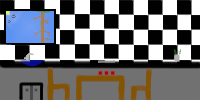
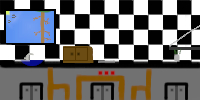
began making levels

diff --git a/level instructions.js b/level instructions.js
@@ -1,0 +1,86 @@
+import Line from "./line.js"
+import Element from "./element.js"
+import { vhToPx, pxToVh, vwToPx, pxToVw } from "./script.js"
+
+export let testLevelIni = function(thisLevel) {
+    // let element = new Element(thisLevel, -6, 0.9, electron, window_width - 400, window_height - 1000, "element")
+    // element.draw()
+    
+    // let element2 = new Element(thisLevel, 9, 1.5, positive, 20, window_height - characterHeight - 1000, "element")
+    // element2.draw()
+    
+    // let element3 = new Element(thisLevel, 7, 0.4, positive, window_width - 100, window_height - characterHeight - 1000, "element")
+    // element3.draw()
+    
+    // let testFloor = new Line(10, window_height - 25, 500, window_height - 25, thisLevel)
+    
+    // let testFloorWithWall = new Line(10, 100, 10, window_height - 25, thisLevel)
+
+    let redBookline1 = new Line(vwToPx(29.83), vhToPx(85.86), vwToPx(32.44), vhToPx(85.86), thisLevel)
+    let redBookline2 = new Line(vwToPx(29.83), vhToPx(99.43), vwToPx(32.44), vhToPx(99.43), thisLevel)
+    let redBookline3 = new Line(vwToPx(29.83), vhToPx(85.86), vwToPx(29.83), vhToPx(99.43), thisLevel)
+    let redBookline4 = new Line(vwToPx(32.44), vhToPx(85.86), vwToPx(32.44), vhToPx(99.43), thisLevel)
+
+    let chairline1 = new Line(vwToPx(79.38060309698452), vhToPx(87.115165336374), vwToPx(86.96006519967399), vhToPx(87.115165336374), thisLevel)
+    let chairline2 = new Line(vwToPx(79.38060309698452), vhToPx(99.54389965792474), vwToPx(86.96006519967399), vhToPx(99.54389965792474), thisLevel)
+    let chairline3 = new Line(vwToPx(79.38060309698452), vhToPx(87.115165336374), vwToPx(79.38060309698452), vhToPx(99.54389965792474), thisLevel)
+    let chairline4 = new Line(vwToPx(86.96006519967399), vhToPx(87.115165336374), vwToPx(86.96006519967399), vhToPx(99.54389965792474), thisLevel)
+
+    let blueBookline2 = new Line(vwToPx(27.87286063569682), vhToPx(99.77194982896236), vwToPx(29.991850040749796), vhToPx(99.77194982896236), thisLevel)
+    let blueBookline1 = new Line(vwToPx(27.87286063569682), vhToPx(89.85176738882555), vwToPx(29.991850040749796), vhToPx(89.85176738882555), thisLevel)
+    let blueBookline3 = new Line(vwToPx(27.87286063569682), vhToPx(89.85176738882555), vwToPx(27.87286063569682), vhToPx(99.77194982896236), thisLevel)
+    let blueBookline4 = new Line(vwToPx(29.991850040749796), vhToPx(89.85176738882555), vwToPx(29.991850040749796), vhToPx(99.77194982896236), thisLevel)
+}
+
+export let kitchenLevel = function(thisLevel) {
+    // let Sodium = new Element(thisLevel, 1, 0.93, sodiumSprite, )
+    let chair1Part1line1 = new Line(vwToPx(23.879380603096983), vhToPx(67.38882554161916), vwToPx(26.32436837815811), vhToPx(67.38882554161916), thisLevel)
+    let chair1Part1line2 = new Line(vwToPx(23.879380603096983), vhToPx(99.54389965792474), vwToPx(26.32436837815811), vhToPx(99.54389965792474), thisLevel)
+    let chair1Part1line3 = new Line(vwToPx(23.879380603096983), vhToPx(67.38882554161916), vwToPx(23.879380603096983), vhToPx(99.54389965792474), thisLevel)
+    let chair1Part1line4 = new Line(vwToPx(26.32436837815811), vhToPx(67.38882554161916), vwToPx(26.32436837815811), vhToPx(99.54389965792474), thisLevel)
+
+    let chair1Part2line1 = new Line(vwToPx(27.302363488182557), vhToPx(83.92246294184721), vwToPx(34.800325998370006), vhToPx(83.92246294184721), thisLevel)
+    let chair1Part2line2 = new Line(vwToPx(27.302363488182557), vhToPx(99.54389965792474), vwToPx(34.800325998370006), vhToPx(99.54389965792474), thisLevel)
+    let chair1Part2line3 = new Line(vwToPx(27.302363488182557), vhToPx(83.92246294184721), vwToPx(27.302363488182557), vhToPx(99.54389965792474), thisLevel)
+    let chair1Part2line4 = new Line(vwToPx(34.800325998370006), vhToPx(83.92246294184721), vwToPx(34.800325998370006), vhToPx(99.54389965792474), thisLevel)
+
+    let chair2Part1line1 = new Line(vwToPx(75.63162184189079), vhToPx(68.18700114025086), vwToPx(72.94213528932355), vhToPx(68.18700114025086), thisLevel)
+    let chair2Part1line2 = new Line(vwToPx(75.63162184189079), vhToPx(99.65792474344356), vwToPx(72.94213528932355), vhToPx(99.65792474344356), thisLevel)
+    let chair2Part1line3 = new Line(vwToPx(75.63162184189079), vhToPx(68.18700114025086), vwToPx(75.63162184189079), vhToPx(99.65792474344356), thisLevel)
+    let chair2Part1line4 = new Line(vwToPx(72.94213528932355), vhToPx(68.18700114025086), vwToPx(72.94213528932355), vhToPx(99.65792474344356), thisLevel)
+
+    let chair2Part2line1 = new Line(vwToPx(65.60717196414018), vhToPx(85.74686431014823), vwToPx(72.29013854930724), vhToPx(85.74686431014823), thisLevel)
+    let chair2Part2line2 = new Line(vwToPx(65.60717196414018), vhToPx(99.42987457240594), vwToPx(72.29013854930724), vhToPx(99.42987457240594), thisLevel)
+    let chair2Part2line3 = new Line(vwToPx(65.60717196414018), vhToPx(85.74686431014823), vwToPx(65.60717196414018), vhToPx(99.42987457240594), thisLevel)
+    let chair2Part2line4 = new Line(vwToPx(72.29013854930724), vhToPx(85.74686431014823), vwToPx(72.29013854930724), vhToPx(99.42987457240594), thisLevel)
+
+    let tableline1 = new Line(vwToPx(37.815810920945395), vhToPx(74.9144811858609), vwToPx(61.93969030154849), vhToPx(74.9144811858609), thisLevel)
+    let tableline2 = new Line(vwToPx(37.815810920945395), vhToPx(99.31584948688712), vwToPx(61.93969030154849), vhToPx(99.31584948688712), thisLevel)
+    let tableline3 = new Line(vwToPx(37.815810920945395), vhToPx(74.9144811858609), vwToPx(37.815810920945395), vhToPx(99.31584948688712), thisLevel)
+    let tableline4 = new Line(vwToPx(61.93969030154849), vhToPx(74.9144811858609), vwToPx(61.93969030154849), vhToPx(99.31584948688712), thisLevel)
+
+    let drawer1line1 = new Line(vwToPx(9.372453137734311), vhToPx(81.87001140250855), vwToPx(21.352893235533823), vhToPx(81.87001140250855), thisLevel)
+    let drawer1line2 = new Line(vwToPx(9.372453137734311), vhToPx(99.54389965792474), vwToPx(21.352893235533823), vhToPx(99.54389965792474), thisLevel)
+    let drawer1line3 = new Line(vwToPx(9.372453137734311), vhToPx(81.87001140250855), vwToPx(9.372453137734311), vhToPx(99.54389965792474), thisLevel)
+    let drawer1line4 = new Line(vwToPx(21.352893235533823), vhToPx(81.87001140250855), vwToPx(21.352893235533823), vhToPx(99.54389965792474), thisLevel)
+
+    let drawer2line1 = new Line(vwToPx(82.07008964955175), vhToPx(82.32611174458381), vwToPx(93.96903015484924), vhToPx(82.32611174458381), thisLevel)
+    let drawer2line2 = new Line(vwToPx(82.07008964955175), vhToPx(99.65792474344356), vwToPx(93.96903015484924), vhToPx(99.65792474344356), thisLevel)
+    let drawer2line3 = new Line(vwToPx(82.07008964955175), vhToPx(82.32611174458381), vwToPx(82.07008964955175), vhToPx(99.65792474344356), thisLevel)
+    let drawer2line4 = new Line(vwToPx(93.96903015484924), vhToPx(82.32611174458381), vwToPx(93.96903015484924), vhToPx(99.65792474344356), thisLevel)
+
+    let cabinetline1 = new Line(vwToPx(31.458842705786473), vhToPx(46.18015963511973), vwToPx(46.291768541157296), vhToPx(46.18015963511973), thisLevel)
+    let cabinetline2 = new Line(vwToPx(31.458842705786473), vhToPx(62.59977194982896), vwToPx(46.291768541157296), vhToPx(62.59977194982896), thisLevel)
+    let cabinetline3 = new Line(vwToPx(31.458842705786473), vhToPx(46.18015963511973), vwToPx(31.458842705786473), vhToPx(62.59977194982896), thisLevel)
+    let cabinetline4 = new Line(vwToPx(46.291768541157296), vhToPx(46.18015963511973), vwToPx(46.291768541157296), vhToPx(62.59977194982896), thisLevel)
+
+    let windowline1 = new Line(vwToPx(27.87286063569682), vhToPx(44.58380843785633), vwToPx(2.037489812550937), vhToPx(44.58380843785633), thisLevel)
+    let windowline2 = new Line(vwToPx(27.87286063569682), vhToPx(8.779931584948688), vwToPx(2.037489812550937), vhToPx(8.779931584948688), thisLevel)
+    let windowline3 = new Line(vwToPx(27.87286063569682), vhToPx(44.58380843785633), vwToPx(27.87286063569682), vhToPx(8.779931584948688), thisLevel)
+    let windowline4 = new Line(vwToPx(2.037489812550937), vhToPx(44.58380843785633), vwToPx(2.037489812550937), vhToPx(8.779931584948688), thisLevel)
+
+    let shelfline1 = new Line(vwToPx(84.67807660961695), vhToPx(47.32041049030787), vwToPx(99.83700081499592), vhToPx(47.32041049030787), thisLevel)
+    let shelfline2 = new Line(vwToPx(84.67807660961695), vhToPx(49.48688711516533), vwToPx(99.83700081499592), vhToPx(49.48688711516533), thisLevel)
+    let shelfline3 = new Line(vwToPx(84.67807660961695), vhToPx(47.32041049030787), vwToPx(84.67807660961695), vhToPx(49.48688711516533), thisLevel)
+    let shelfline4 = new Line(vwToPx(99.83700081499592), vhToPx(47.32041049030787), vwToPx(99.83700081499592), vhToPx(49.48688711516533), thisLevel)
+}

diff --git a/script.js b/script.js
@@ -6,9 +6,12 @@ import Element from "./element.js"
 import Level from "./level.js"
 import Photon from "./photon.js"
 import { beginMakingBox, getCoordsOnClick } from "./placement tool.js"
+import { kitchenLevel, testLevelIni } from "./level instructions.js"
 
 const electron = new spriteMap("./Sprites/negative.png")
 const positive = new spriteMap("./Sprites/positive.png")
+const chorineSprite = new spriteMap("./Element Symbols/Chlorine.jpg")
+const sodiumSprite = new spriteMap("./Element Symbols/Sodium.jpg")
 const photonSprite = new spriteMap("./Sprites/photonLeft.png", "./Sprites/photonLeft.png", "./Sprites/photonRight.png")
 const characterHeight = 50
 const background = document.getElementById("backgroundImage")
@@ -20,7 +23,7 @@ let currImg = 0
 export let window_height = window.innerHeight
 export let window_width = window.innerWidth
 let currentLevel = undefined
-let currLevelNum = 0
+let currLevelNum = 1
 
 let character = undefined
 let characterController = undefined
@@ -39,50 +42,6 @@ export function vwToPx(vw) {
     return (vw / 100) * window_width
 }
 
-let testLevelIni = function(thisLevel) {
-    // let element = new Element(thisLevel, -6, 0.9, electron, window_width - 400, window_height - 1000, "element")
-    // element.draw()
-    
-    // let element2 = new Element(thisLevel, 9, 1.5, positive, 20, window_height - characterHeight - 1000, "element")
-    // element2.draw()
-    
-    // let element3 = new Element(thisLevel, 7, 0.4, positive, window_width - 100, window_height - characterHeight - 1000, "element")
-    // element3.draw()
-    
-    // let testFloor = new Line(10, window_height - 25, 500, window_height - 25, thisLevel)
-    
-    // let testFloorWithWall = new Line(10, 100, 10, window_height - 25, thisLevel)
-
-    let redBookline1 = new Line(vwToPx(29.83), vhToPx(85.86), vwToPx(32.44), vhToPx(85.86), thisLevel)
-    let redBookline2 = new Line(vwToPx(29.83), vhToPx(99.43), vwToPx(32.44), vhToPx(99.43), thisLevel)
-    let redBookline3 = new Line(vwToPx(29.83), vhToPx(85.86), vwToPx(29.83), vhToPx(99.43), thisLevel)
-    let redBookline4 = new Line(vwToPx(32.44), vhToPx(85.86), vwToPx(32.44), vhToPx(99.43), thisLevel)
-
-    let chairline1 = new Line(vwToPx(79.38060309698452), vhToPx(87.115165336374), vwToPx(86.96006519967399), vhToPx(87.115165336374), thisLevel)
-    let chairline2 = new Line(vwToPx(79.38060309698452), vhToPx(99.54389965792474), vwToPx(86.96006519967399), vhToPx(99.54389965792474), thisLevel)
-    let chairline3 = new Line(vwToPx(79.38060309698452), vhToPx(87.115165336374), vwToPx(79.38060309698452), vhToPx(99.54389965792474), thisLevel)
-    let chairline4 = new Line(vwToPx(86.96006519967399), vhToPx(87.115165336374), vwToPx(86.96006519967399), vhToPx(99.54389965792474), thisLevel)
-
-    let line1 = new Line(vwToPx(27.87286063569682), vhToPx(89.85176738882555), vwToPx(29.991850040749796), vhToPx(89.85176738882555), thisLevel)
-    let line2 = new Line(vwToPx(27.87286063569682), vhToPx(99.77194982896236), vwToPx(29.991850040749796), vhToPx(99.77194982896236), thisLevel)
-    let line3 = new Line(vwToPx(27.87286063569682), vhToPx(89.85176738882555), vwToPx(27.87286063569682), vhToPx(99.77194982896236), thisLevel)
-    let line4 = new Line(vwToPx(29.991850040749796), vhToPx(89.85176738882555), vwToPx(29.991850040749796), vhToPx(99.77194982896236), thisLevel)
-
-    // let test = document.createElement("div")
-    // document.body.appendChild(test)
-    // test.style.width = 100 + "px"
-    // test.style.height = 100 + "px"
-    // test.style.left = 367 + "px"
-    // test.style.top = 753 + "px"
-    // test.style.backgroundColor = "red"
-    // test.style.position = "absolute"
-}
-
-let level1Init = function(thisLevel) {
-    let element = new Element(thisLevel, -6, 0.9, electron, window_width - 400, window_height - 1000, "element")
-    element.draw()
-}
-
 let switchLevels = (levelNum) => {
     let levelNotFound = false
     if (currentLevel != undefined) currentLevel.clearLevel()
@@ -94,7 +53,7 @@ let switchLevels = (levelNum) => {
             break
 
         case 1:
-            let level1 = new Level(1, [window_width/2, window_height - characterHeight], background, "./Level Backgrounds/watchroom.jpg", level1Init)
+            let level1 = new Level(1, [window_width/2, window_height - characterHeight], background, "./Level Backgrounds/kitchen.jpg", kitchenLevel)
             currentLevel = level1
             break
 

diff --git a/placement tool.js b/placement tool.js
@@ -8,7 +8,7 @@ export function beginMakingBox() {
     if (!boxActive) {
         window.addEventListener("click", clicksHandler)
         console.log("The tool for easily making a box of collision lines is currently active")
-        console.log("make sure to first, click the upper right of box you are selecting")
+        console.log("make sure to first, click the upper left of box you are selecting")
         console.log("and then click the bottom right, in order to insure that this tool works")
         boxActive = true
     }
@@ -32,6 +32,8 @@ function clicksHandler(event) {
 
         window.removeEventListener("click", onClick)
         count = 0
+        firstCoordPair = [undefined, undefined]
+        secondCoordPair = [undefined, undefined]    
         boxActive = false
     }
 }

diff --git a/character/character.js b/character/character.js
@@ -122,7 +122,7 @@ export default class Character {
         this.imageElement.style.left = 0
         this.imageElement.style.top = 0
 
-        this.divElem.style.border = "3px solid red"
+        // this.divElem.style.border = "3px solid red"
 
         this.divStyle = window.getComputedStyle(this.divElem)
         this.imageStyle = window.getComputedStyle(this.imageElement)

diff --git a/index.html b/index.html
@@ -18,5 +18,6 @@
     <script type="module" src="level.js"></script>
     <script type="module" src="photon.js"></script>
     <script type="module" src="placement tool.js"></script>
+    <script type="module" src="level instructions.js"></script>
 </body>
 </html>
